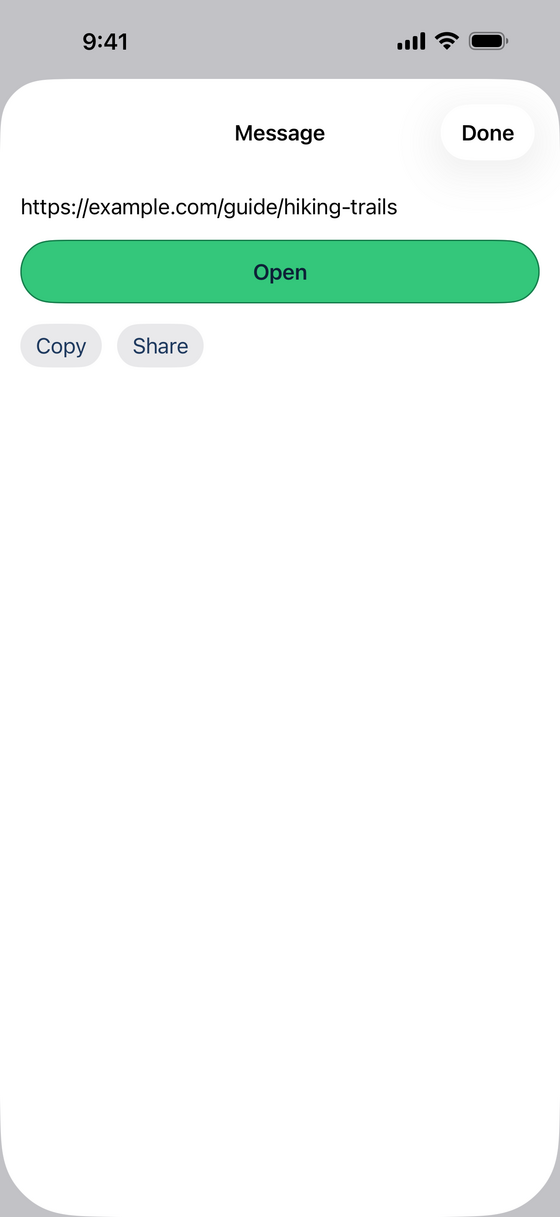
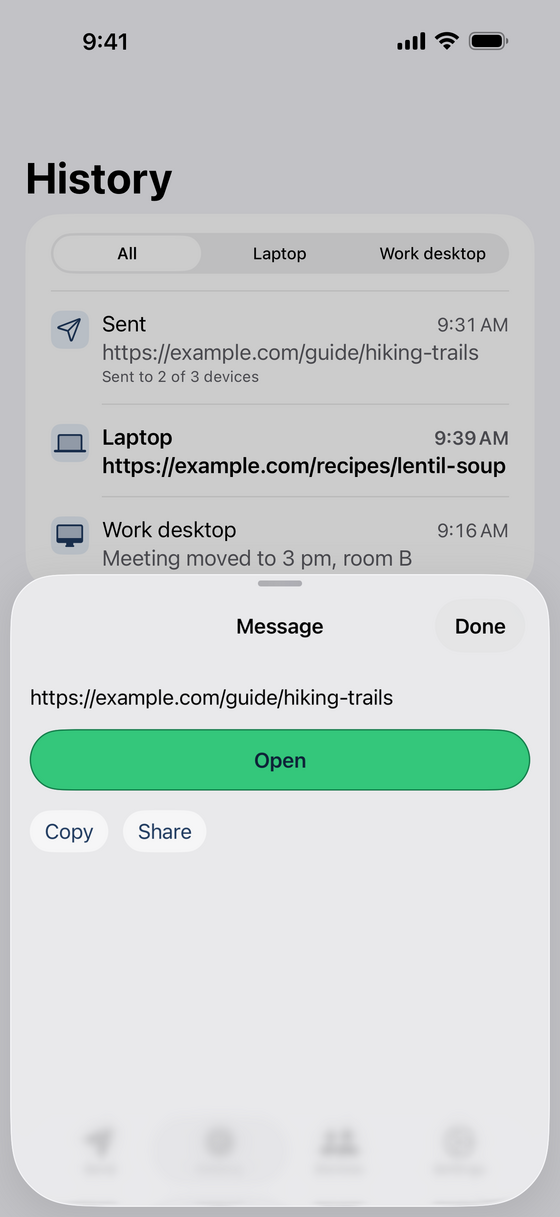
site: about iPhone history sheet and send error shots from the current app

diff --git a/site/public/about.html b/site/public/about.html
@@ -73,7 +73,7 @@ can open them. The security page shows who sees what.</p>
 <figure class="shot"><a class="shot-link" href="/img/about/iphone/06-first-pair-waiting.png"><img src="/img/about/iphone/06-first-pair-waiting.png" width="280" height="608" alt="iPhone Pair your first device screen with a device waiting to pair and Pair and Deny buttons." loading="lazy"></a><figcaption>Waiting for a device to pair</figcaption></figure>
 <figure class="shot"><a class="shot-link" href="/img/about/iphone/07-devices-list.png"><img src="/img/about/iphone/07-devices-list.png" width="280" height="608" alt="iPhone Devices screen listing several paired devices." loading="lazy"></a><figcaption>Manage your devices</figcaption></figure>
 <figure class="shot"><a class="shot-link" href="/img/about/iphone/08-send-error.png"><img src="/img/about/iphone/08-send-error.png" width="280" height="608" alt="iPhone Send screen with a message that the send failed and to try again." loading="lazy"></a><figcaption>Know when a send fails</figcaption></figure>
-<figure class="shot"><a class="shot-link" href="/img/about/iphone/09-history-open.png"><img src="/img/about/iphone/09-history-open.png" width="280" height="608" alt="iPhone message sheet with Open, Copy, and Share buttons." loading="lazy"></a><figcaption>Open a message for more actions</figcaption></figure>
+<figure class="shot"><a class="shot-link" href="/img/about/iphone/09-history-open.png"><img src="/img/about/iphone/09-history-open.png" width="280" height="608" alt="iPhone message sheet over the History list with Open, Copy, and Share buttons." loading="lazy"></a><figcaption>Open a message for more actions</figcaption></figure>
 </div>
 </section>
 
